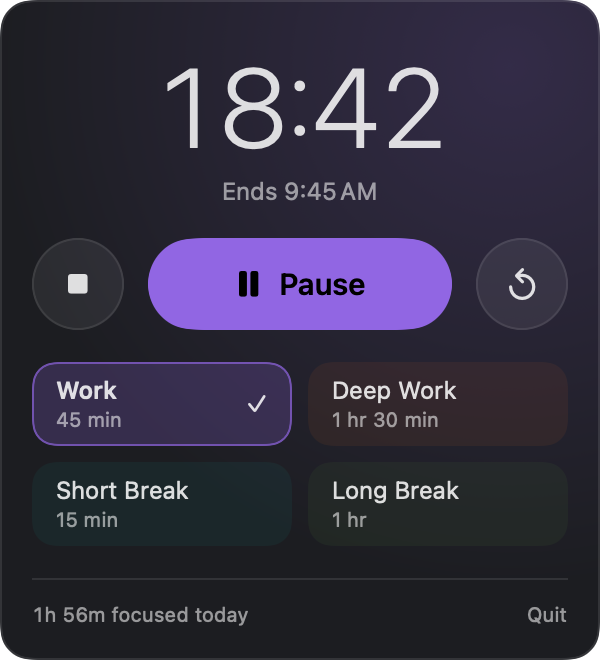
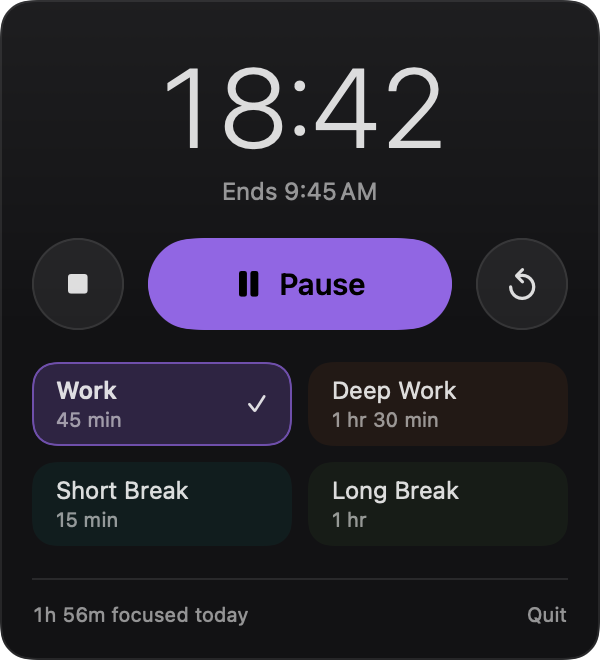
Give the Mac drop-down a dark graphite surface and match it in the README

Changed region(s): [[0.39, 0.0, 1.0, 0.697]]

diff --git a/docs/gallery/gallery.css b/docs/gallery/gallery.css
@@ -2,7 +2,7 @@
 * { box-sizing: border-box; }
 html, body { margin: 0; padding: 0; }
 body { font-family: var(--serif), serif; color: #f5f7fa; background: #080d15; -webkit-font-smoothing: antialiased; }
-.canvas { width: 1600px; height: 1100px; position: relative; overflow: hidden; background: radial-gradient(ellipse at 28% 6%, #18324b 0, transparent 55%), radial-gradient(ellipse at 96% 100%, #0a3439 0, transparent 52%), radial-gradient(ellipse at 70% 40%, #1c1736 0, transparent 45%), #0a1019; }
+.canvas { width: 1600px; height: 1100px; position: relative; overflow: hidden; background: radial-gradient(ellipse at 24% 4%, #142538 0, transparent 52%), radial-gradient(ellipse at 96% 100%, #0a2a2e 0, transparent 48%), #080b10; }
 header { position: absolute; left: 64px; right: 64px; top: 46px; display: flex; align-items: center; justify-content: space-between; }
 .brand { display: flex; align-items: center; gap: 12px; font-size: 15px; font-weight: 400; letter-spacing: .22em; text-transform: uppercase; color: #d9e3ef; }
 .brand-mark { width: 30px; height: 30px; border-radius: 7px; box-shadow: 0 0 0 1px #ffffff24, 0 4px 12px #0006; }
@@ -16,17 +16,17 @@ section { position: absolute; top: 136px; }
 .phone { position: relative; width: 356px; padding: 8px; background: linear-gradient(135deg, #748092, #252d39 24%, #0c1017 65%, #566175); border-radius: 52px; box-shadow: inset 0 0 0 1px #aeb8c257, 0 24px 60px #0006; }
 .phone::after { content: ""; width: 4px; height: 58px; background: linear-gradient(#566175,#1a222d); position: absolute; right: -3px; top: 146px; border-radius: 0 3px 3px 0; }
 .phone img { width: 100%; display: block; border-radius: 44px; border: 2px solid #05080c; }
-.desk { position: relative; height: 438px; border-radius: 18px; overflow: hidden; background: radial-gradient(ellipse at 80% 0%, #2a3c58 0, transparent 60%), linear-gradient(160deg, #1a2333, #0f141e 70%); box-shadow: inset 0 0 0 1px #ffffff14, 0 24px 60px #0006; }
-.menubar { font-family: -apple-system, "SF Pro Text", "Inter", sans-serif; height: 32px; display: flex; justify-content: flex-end; align-items: center; gap: 4px; padding: 0 14px; background: #0b0f17cc; backdrop-filter: blur(20px); border-bottom: 1px solid #ffffff12; font-size: 13.5px; font-weight: 500; color: #e9eef5; }
+.desk { position: relative; height: 438px; border-radius: 18px; overflow: hidden; background: radial-gradient(ellipse at 72% 0%, #1d2026 0, transparent 62%), linear-gradient(170deg, #121418, #0a0b0d 72%); box-shadow: inset 0 0 0 1px #ffffff12, 0 24px 60px #0008; }
+.menubar { font-family: -apple-system, "SF Pro Text", "Inter", sans-serif; height: 32px; display: flex; justify-content: flex-end; align-items: center; gap: 4px; padding: 0 14px; background: #060708e6; backdrop-filter: blur(20px); border-bottom: 1px solid #ffffff10; font-size: 13.5px; font-weight: 500; color: #e9eef5; }
 .item { display: inline-flex; align-items: center; gap: 6px; height: 24px; padding: 0 8px; border-radius: 6px; }
-.item.active { background: #ffffff26; }
+.item.active { background: #ffffff1f; }
 .item svg { width: 16px; height: 16px; fill: none; stroke: #e9eef5; stroke-width: 1.4; stroke-linecap: round; }
 .item svg[viewBox="0 0 22 12"] { width: 22px; height: 12px; }
 .item svg .fill { fill: #e9eef5; stroke: none; }
 .item b { font-weight: 600; font-variant-numeric: tabular-nums; }
 .clock { padding-left: 6px; }
 .mac-panel { position: absolute; top: 40px; right: 128px; width: 340px; }
-.mac-panel img { display: block; width: 100%; border-radius: 16px; box-shadow: 0 0 0 1px #ffffff1f, 0 22px 50px #000a; }
+.mac-panel img { display: block; width: 100%; border-radius: 16px; box-shadow: 0 0 0 1px #ffffff14, 0 22px 50px #000c; }
 .wrist { margin-top: 38px; }
 .watches { display: flex; gap: 34px; }
 .watch { position: relative; width: 236px; padding: 9px; border-radius: 58px; background: linear-gradient(135deg, #8d9298 0, #3a3e46 12%, #12161d 42%, #313740 76%, #777e86); box-shadow: inset 0 0 0 1px #d9e2ed57, 0 22px 45px #0007; }

diff --git a/Mac/PanelView.swift b/Mac/PanelView.swift
@@ -149,19 +149,26 @@ private struct Press: ButtonStyle {
     func makeBody(configuration: Configuration) -> some View { configuration.label.opacity(configuration.isPressed ? 0.6 : 1) }
 }
 
-/// The system popover material, so the drop-down follows Light and Dark Mode and Reduce Transparency,
-/// with the iPhone dashboard's faint accent glow.
+/// Dark Mode uses a deep, nearly opaque graphite so the wallpaper and the session colour never tint the
+/// drop-down; the accent stays on the controls. Light Mode keeps the system popover material.
 private struct PanelBackground: View {
     var accent: Color
     var material: Bool
     @Environment(\.colorScheme) private var scheme
+    @Environment(\.accessibilityReduceTransparency) private var opaque
     var body: some View {
         let shape = RoundedRectangle(cornerRadius: 16, style: .continuous)
         ZStack {
-            if material { Material() } else { Color(red: 0.11, green: 0.115, blue: 0.13) }
-            RadialGradient(colors: [accent.opacity(scheme == .dark ? 0.2 : 0.1), .clear], center: UnitPoint(x: 0.85, y: 0.1), startRadius: 0, endRadius: 260)
+            if material && !opaque { Material() }
+            if scheme == .dark {
+                Color(red: 0.07, green: 0.072, blue: 0.08).opacity(material && !opaque ? 0.92 : 1)
+                // A faint top light gives the surface depth without colour.
+                LinearGradient(colors: [.white.opacity(0.05), .clear], startPoint: .top, endPoint: .center)
+            } else if !material || opaque {
+                Color(nsColor: .windowBackgroundColor)
+            }
         }
-        .clipShape(shape).overlay(shape.strokeBorder(Color.primary.opacity(0.12)))
+        .clipShape(shape).overlay(shape.strokeBorder(Color.primary.opacity(scheme == .dark ? 0.1 : 0.12)))
     }
     private struct Material: NSViewRepresentable {
         func makeNSView(context: Context) -> NSVisualEffectView {
